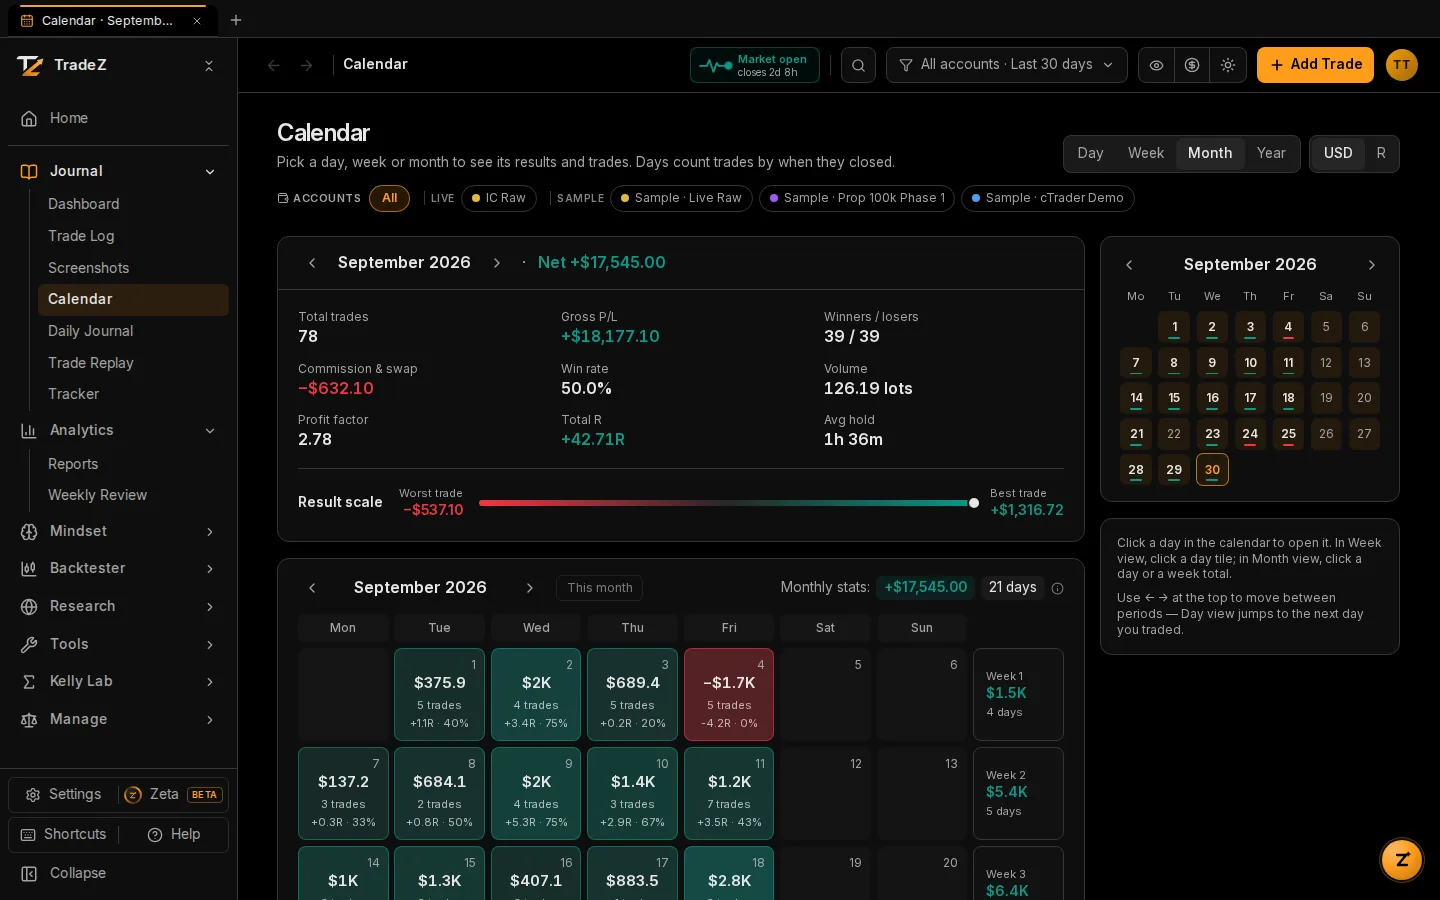
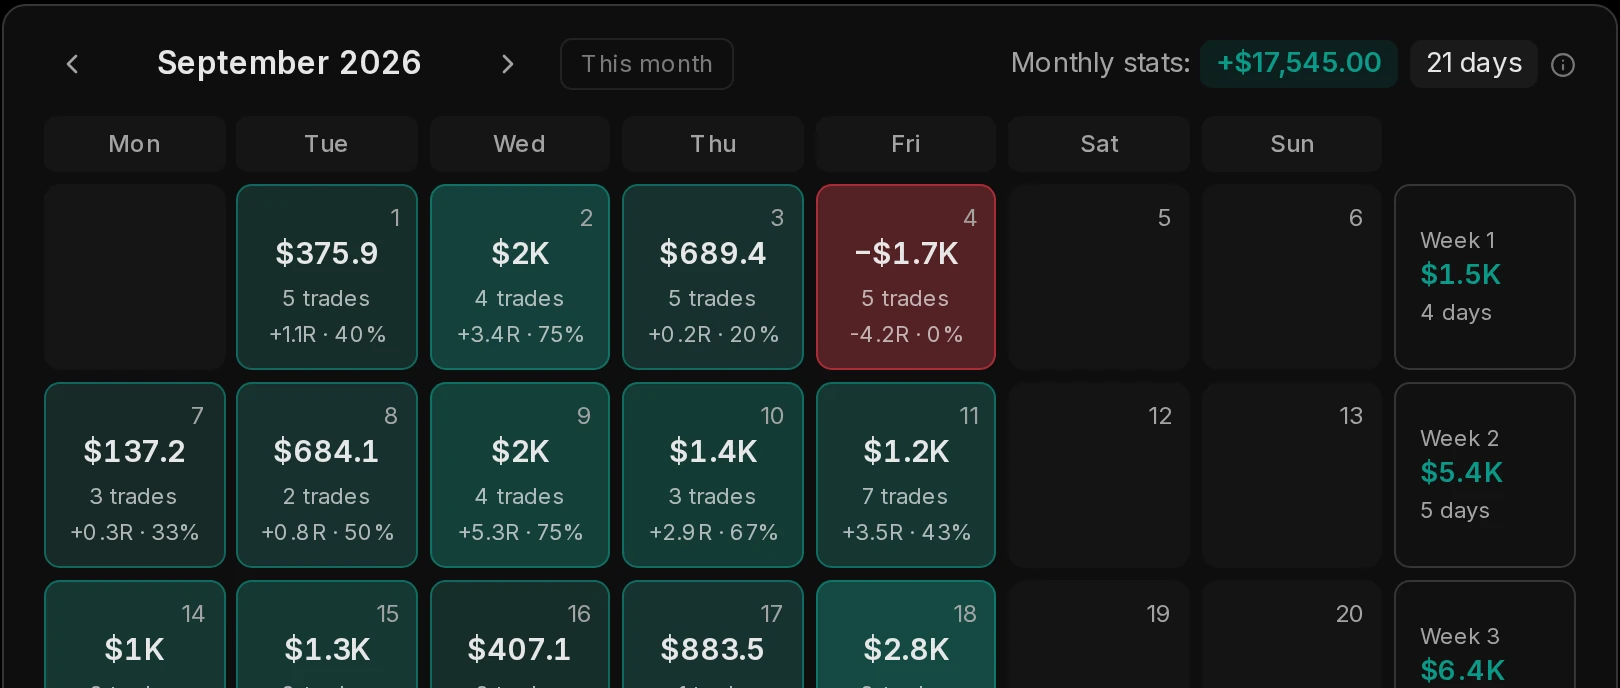
Sharper screenshots: 2x pixel density, cropped to what matters

diff --git a/index.html b/index.html
@@ -39,7 +39,7 @@
     <a class="btn btn-ghost" href="#features">See what’s inside</a>
   </div>
   <p class="note">Windows 10 / 11 · MT5 &amp; cTrader sync · now in private beta</p>
-  <div class="shot"><img src="/assets/dashboard.webp" alt="The TradeZ dashboard" width="1440" height="900" fetchpriority="high"></div>
+  <div class="shot"><img src="/assets/dashboard.webp" alt="The TradeZ dashboard" width="2880" height="1800" fetchpriority="high"></div>
 </div></section>
 
 <section id="features"><div class="wrap">
@@ -60,19 +60,19 @@
 <section><div class="wrap">
 <div class="feature reveal">
   <div class="text"><div class="kicker">Calendar</div><h3>See your month in one look</h3><p>Green and red days, weekly totals and the numbers that matter for any day, week, month or year.</p><ul><li>Day, week, month and year views</li><li>Click any day for its trades and notes</li><li>Counts days the way your broker does</li></ul></div>
-  <div class="frame"><img src="/assets/calendar.webp" alt="TradeZ calendar with daily results" width="1440" height="900" loading="lazy"></div>
+  <div class="frame"><img src="/assets/calendar.webp" alt="TradeZ calendar with daily results" width="1620" height="688" loading="lazy"></div>
 </div>
 <div class="feature reveal flip">
   <div class="text"><div class="kicker"><span id="zeta"></span>Zeta · beta</div><h3>Ask your journal anything</h3><p>Zeta is a private assistant built into TradeZ. Ask in plain words — “how am I doing this month?”, “best setup on gold?”, “what are my mistakes costing me?” — and get the answer with the figures behind it.</p><ul><li>Runs on your PC and works offline</li><li>Knows your setups, sessions, streaks and drawdown</li><li>Finds the right help guide for “how do I…”</li></ul></div>
-  <div class="frame"><img src="/assets/zeta.webp" alt="Zeta answering questions about the journal" width="1440" height="900" loading="lazy"></div>
+  <div class="frame tall"><img src="/assets/zeta.webp" alt="Zeta answering questions about the journal" width="816" height="1576" loading="lazy"></div>
 </div>
 <div class="feature reveal">
   <div class="text"><div class="kicker">Mindset</div><h3>Trade your plan, not your mood</h3><p>Log how you felt before, during and after each trade. TradeZ shows what emotions, readiness and mistakes really cost you.</p><ul><li>Emotions, confidence and plan-followed stats</li><li>Revenge-trade and overtrading warnings</li><li>Mistake tags priced in money</li></ul></div>
-  <div class="frame"><img src="/assets/mindset.webp" alt="TradeZ mindset dashboard" width="1440" height="900" loading="lazy"></div>
+  <div class="frame"><img src="/assets/mindset.webp" alt="TradeZ mindset dashboard" width="2356" height="1200" loading="lazy"></div>
 </div>
 <div class="feature reveal flip">
   <div class="text"><div class="kicker">Reports</div><h3>Find your edge — and your leaks</h3><p>Slice results by time, instrument, risk, setup and tag, or compare winners with losers and any two groups of trades.</p><ul><li>Performance, day &amp; time, risk and setup reports</li><li>Winners vs losers side by side</li><li>Everything in money or in R</li></ul></div>
-  <div class="frame"><img src="/assets/reports.webp" alt="TradeZ reports" width="1440" height="900" loading="lazy"></div>
+  <div class="frame"><img src="/assets/reports.webp" alt="TradeZ reports" width="2300" height="860" loading="lazy"></div>
 </div>
 </div></section>
 

diff --git a/assets/site.css b/assets/site.css
@@ -135,3 +135,6 @@ footer a:hover { color: var(--text); }
   .js .reveal { opacity: 0; transform: translateY(18px); transition: opacity 0.6s ease, transform 0.6s ease; }
   .js .reveal.in { opacity: 1; transform: none; }
 }
+/* Screenshots are 2× for sharp text; keep them crisp when scaled */
+.frame img, .shot img { width: 100%; height: auto; }
+.feature .frame.tall { max-width: 380px; margin-inline: auto; }
